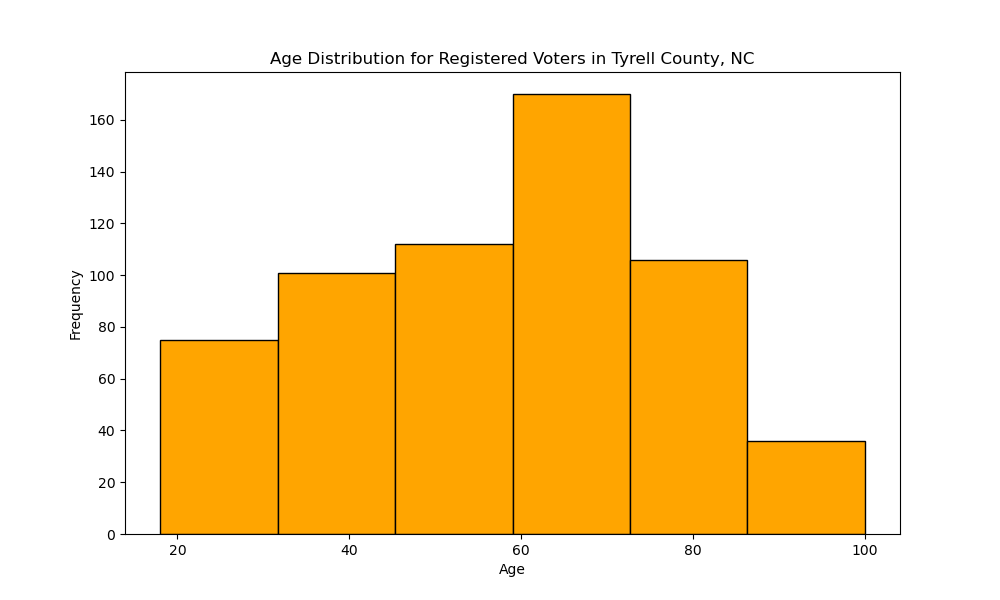
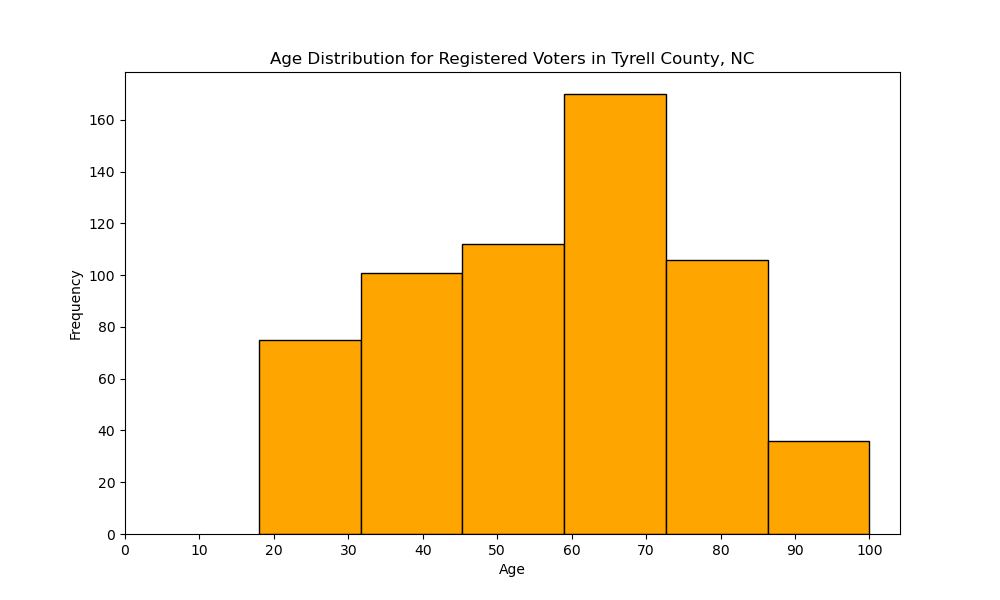
fixing x ticks

diff --git a/main.py b/main.py
@@ -1,5 +1,6 @@
 # import packages
 import pandas as pd
+import numpy as np
 import matplotlib.pyplot as plt
 import matplotlib.ticker as ticker
 
@@ -64,6 +65,8 @@ def generate_histogram_age(df):
     plt.gca().yaxis.set_major_formatter(
         ticker.FuncFormatter(lambda x, _: f"{int(x):,}")
     )
+    x_ticks = np.arange(0, 110, 10)
+    plt.xticks(x_ticks)
 
     plt.savefig("output.png")
     # plt.show()
